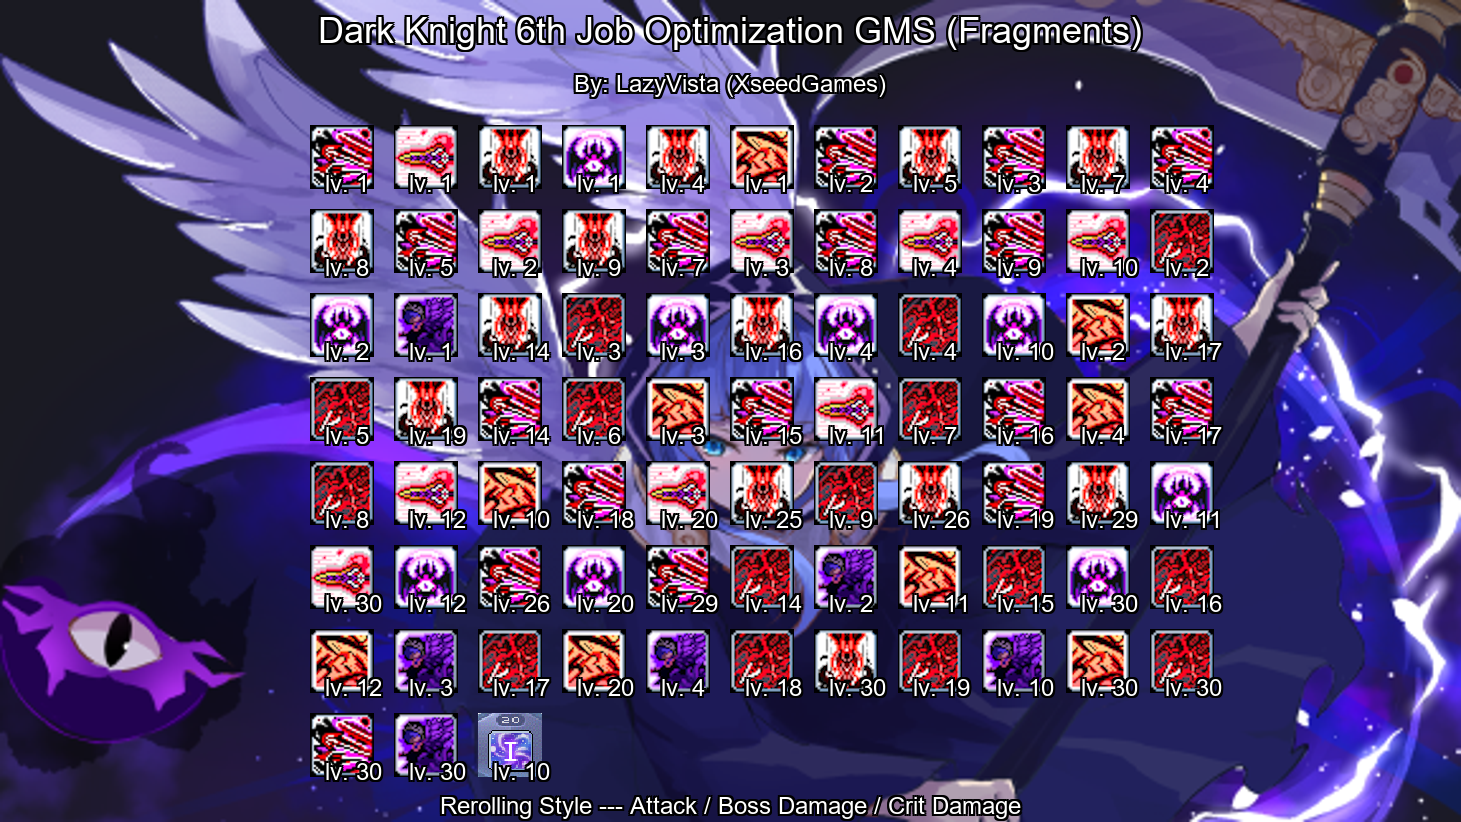
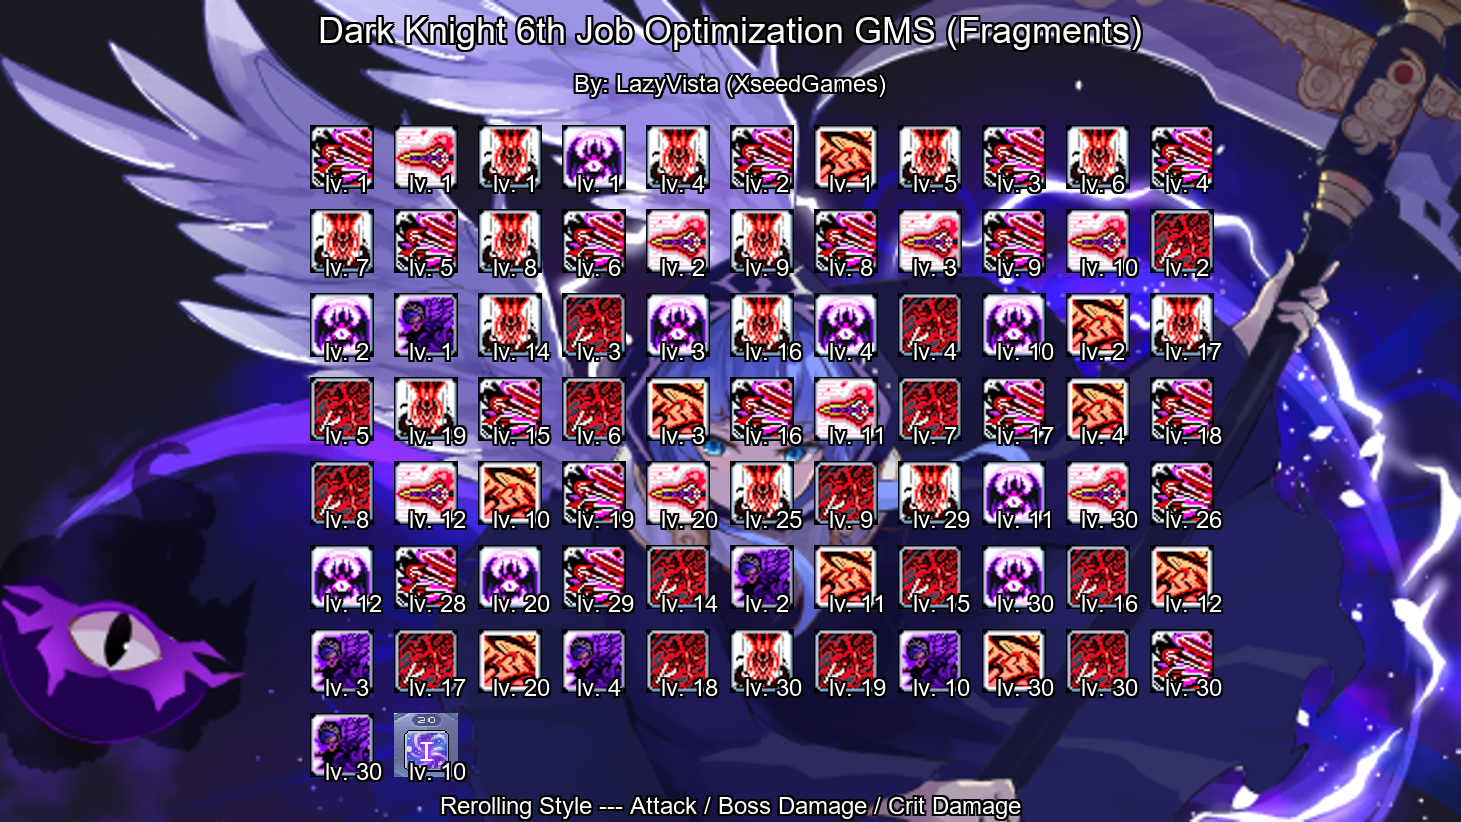
Added nightshade ied and boss stuff

diff --git a/Auto_Infographic_Optimize/Hexa_Skill_Optimize.py b/Auto_Infographic_Optimize/Hexa_Skill_Optimize.py
@@ -92,14 +92,18 @@ def Fill_Boost(List,ID,Aux,Val,Start,End):
     for i in range(Start,End):
         if   ID == "A1":
             # should be adjusted to match class specific values (although most are gonna be similiar
-            Aux_IED = (1-Base_Numbers['Boss_Def']*(1-Base_Numbers['IED'])*(1-(0.3 + int(i/30*10)/100))*(1-.2))/(1-Base_Numbers['Boss_Def']*(1-Base_Numbers['IED'])*(1-0.3)*(1-.2))
+            Aux_IED     = (1-Base_Numbers['Boss_Def']*(1-Base_Numbers['IED'])*(1-(0.3 + int(i/30*10)/100))*(1-.2))/(1-Base_Numbers['Boss_Def']*(1-Base_Numbers['IED'])*(1-0.3)*(1-.2))
             List[i]     = ((225 + 15 +5*(i+1))/225 * Aux * Aux_IED - 1) * Val
             # just incase I use the same name somewhere else
             Aux_IED = 1
         elif ID == "A2a":   
             List[i]   = ((225 + 55 + 3*(i+1))/225 * Aux - 1) * Val
-        elif ID == "A2b":   
-            List[i]   = ((354 + 8*(i+1))/330 * Aux - 1) * Val
+        elif ID == "A2b":
+            Aux_IED   = (1-Base_Numbers['Boss_Def']*(1-Base_Numbers['IED'])*(1-0.6))/(1-Base_Numbers['Boss_Def']*(1-Base_Numbers['IED']))
+            Aux_Boss  = (1 + Base_Numbers['Damage'] + .3) / (1 + Base_Numbers['Damage'])
+            List[i]   = (((340 + 8*(i+1))*12/10)/330 * Aux * Aux_IED * Aux_Boss - 1) * Val
+            Aux_IED   = 1
+            Aux_Boss  = 1
         elif ID == "A2c":   
             List[i]   = ((298 + 9*(i+1))/280 * Aux - 1) * Val
         elif ID == "B":
